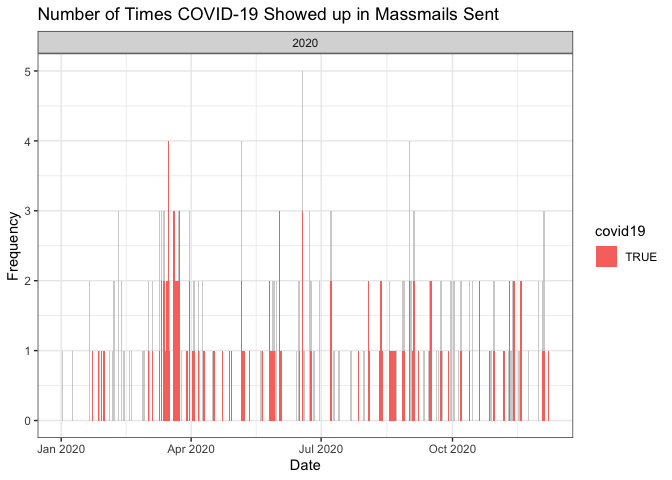
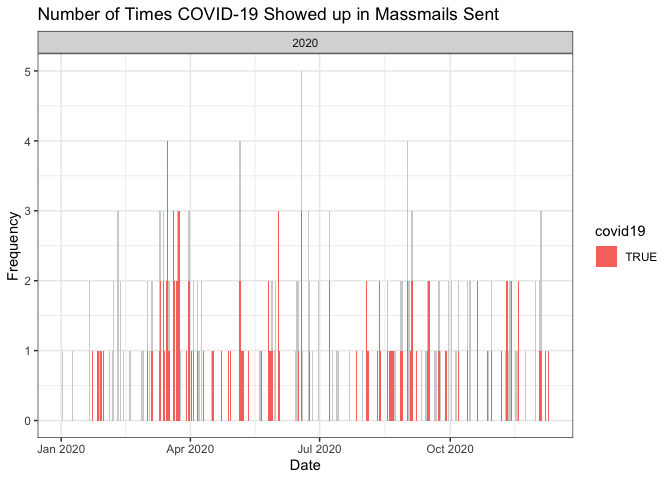
Re-build README.Rmd and Graphs

diff --git a/README.md b/README.md
@@ -17,7 +17,7 @@ The archive may be viewed here:
 
 <https://massmail.illinois.edu/massmailArchive>
 
-Data has **1251** observations and **7** variables:
+Data has **1252** observations and **7** variables:
 
   - `datetime`: Date and time when the email was sent in the form of
     `YYYY-MM-DD HMS` with either CDT or CST.
@@ -205,13 +205,13 @@ head(most_popular_words, 10) %>%
 
 | word        | freq |
 | :---------- | ---: |
-| students    |  713 |
-| campus      |  669 |
-| university  |  659 |
-| illinois    |  418 |
+| students    |  727 |
+| campus      |  672 |
+| university  |  664 |
+| illinois    |  419 |
 | faculty     |  363 |
-| covid       |  346 |
-| community   |  335 |
+| covid       |  347 |
+| community   |  338 |
 | information |  304 |
 | staff       |  287 |
 | health      |  277 |
